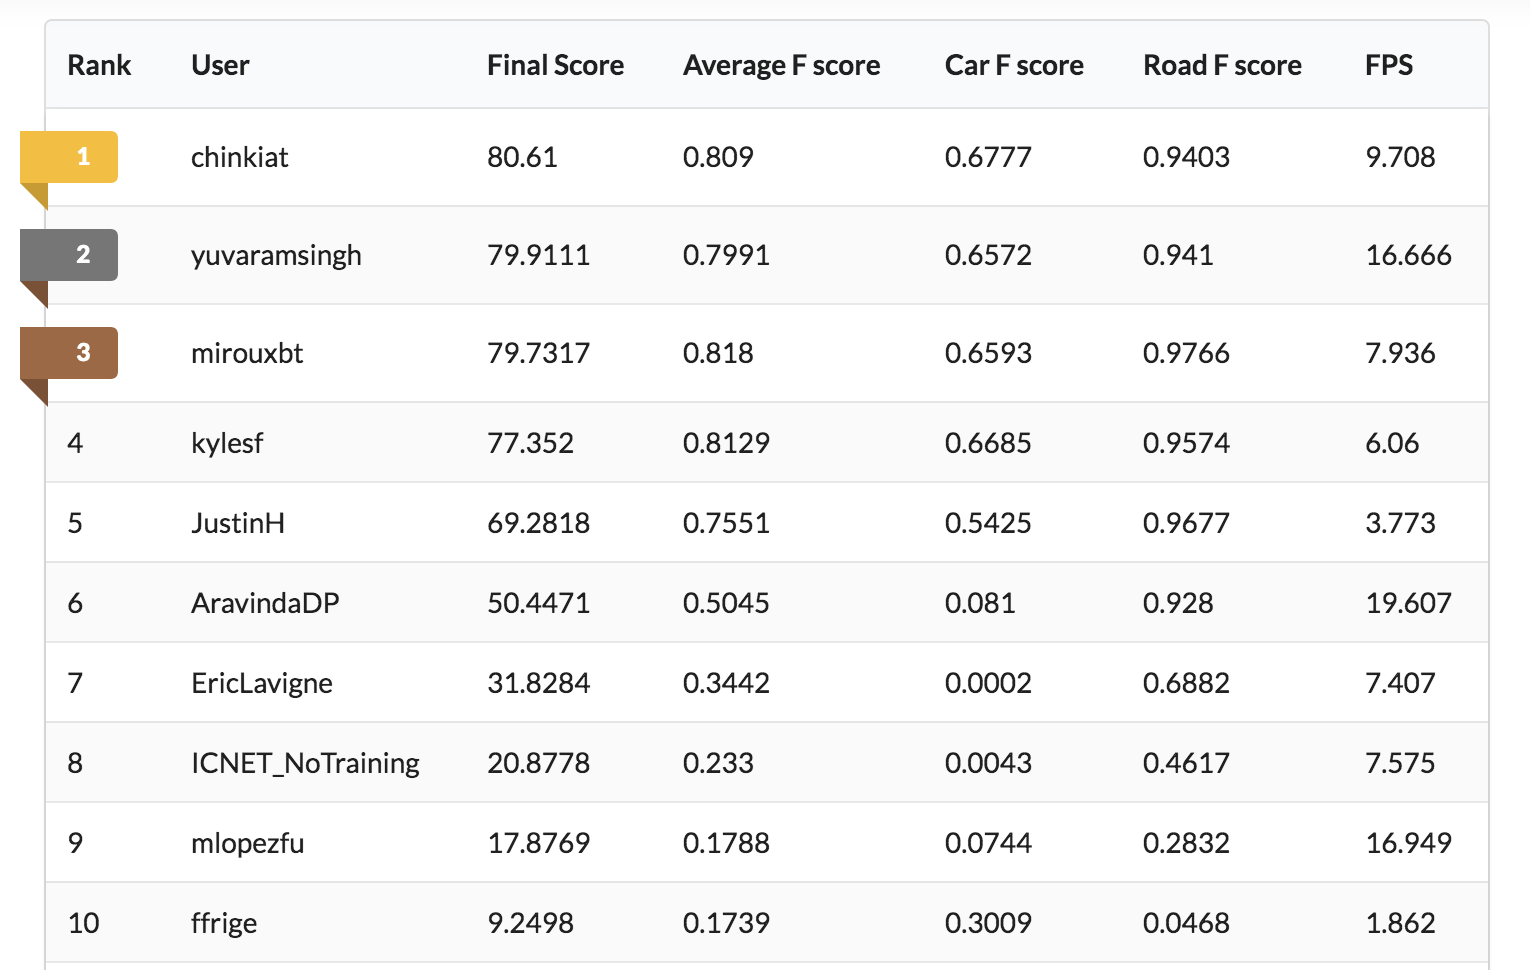
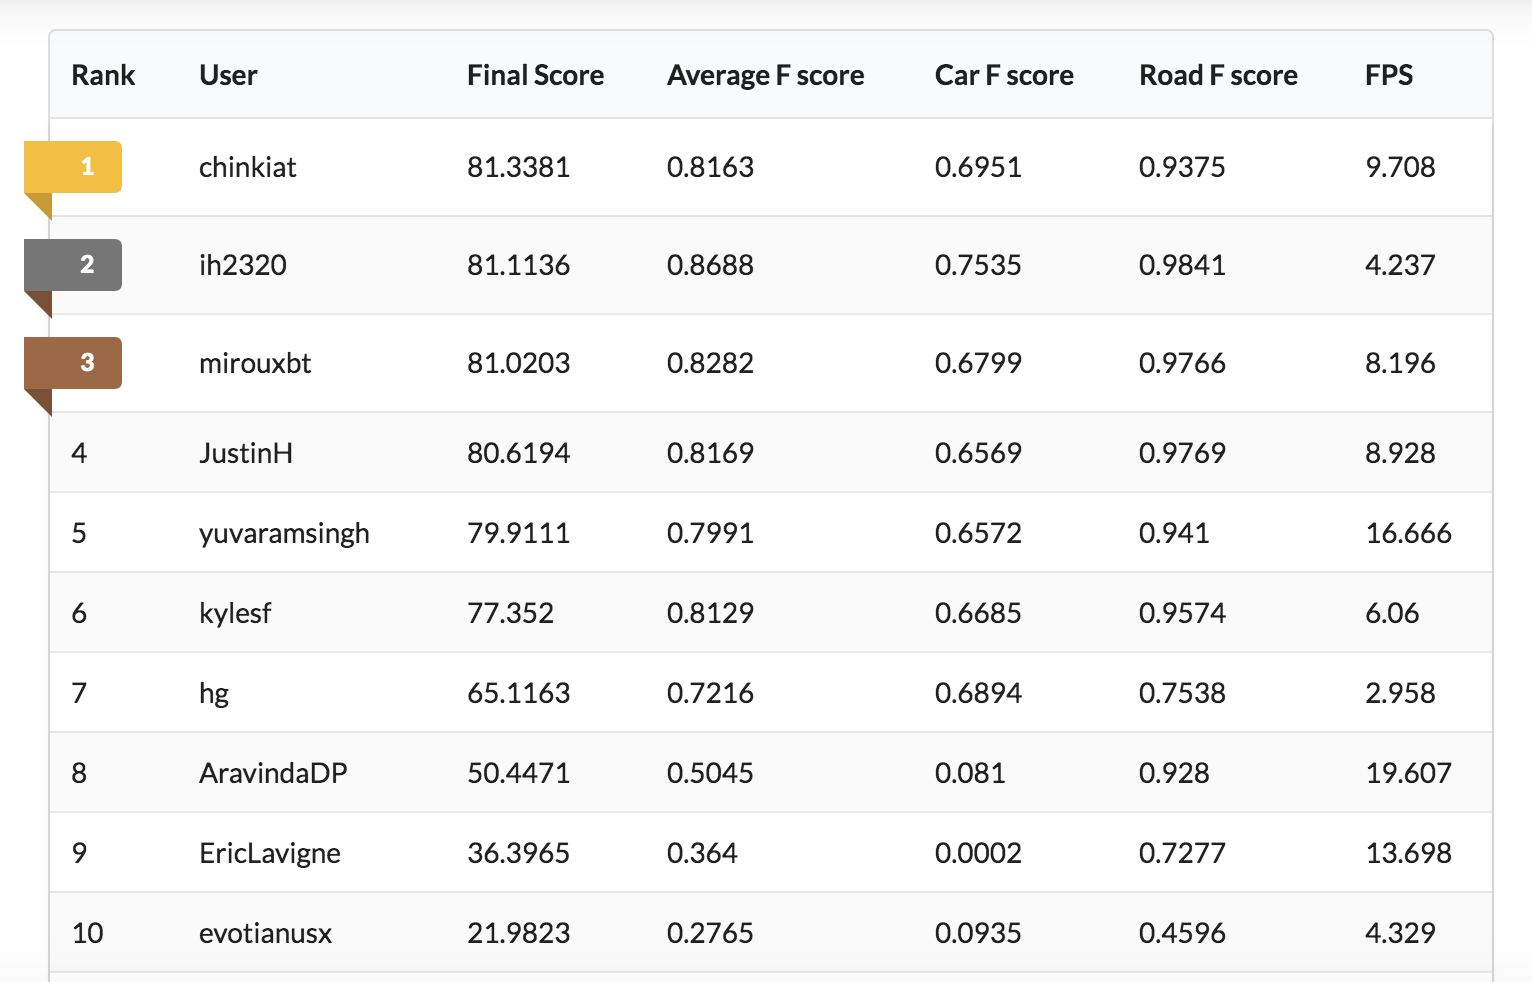
Crop and scale (road: .688 -> .728, mem: 13%, FPS: 7.4 -> 13.7)
Cropped and scaled down input image, primarily to save memory
and allow for more complex model development later. Achieved
main objective with 13% as much memory usage. Additional
benefits included improved road F-score (.688 -> .728),
improved FPS (7.4 -> 13.7), and improved training speed (x2).

diff --git a/util.py b/util.py
@@ -57,17 +57,61 @@ def read_masks(example_number):
   car_mask = None # Fix later. Focusing on road for now.
   return road_mask, car_mask
 
+preprocess_opts = {'original_max_x': 800, 'original_max_y': 600,
+                   'crop_min_x': 0, 'crop_min_y': 210,
+                   'crop_max_x': 800, 'crop_max_y': 526,
+                   'scale_factor': 2}
+                   # can crop 75 off the bottom and 212 off the top
+
+def crop(img,opt):
+  return img[opt['crop_min_y']:opt['crop_max_y'], opt['crop_min_x']:opt['crop_max_x']]
+
+def uncrop_image(img,opt):
+  target_shape = (opt['original_max_y'],opt['original_max_x'], img.shape[2])
+  frame = np.zeros(target_shape, dtype="uint8")
+  frame[opt['crop_min_y']:opt['crop_max_y'], opt['crop_min_x']:opt['crop_max_x'], 0:(img.shape[2])] = img
+  img = frame
+  return img
+
+def uncrop_output(img,opt):
+  target_shape = (opt['original_max_y'],opt['original_max_x'])
+  frame = np.zeros(target_shape, dtype="float32")
+  frame[opt['crop_min_y']:opt['crop_max_y'], opt['crop_min_x']:opt['crop_max_x']] = img
+  img = frame
+  return img
+
+def scale(img,opt):
+  img = cv2.resize(img, None, fx=(1.0/opt['scale_factor']), fy=(1.0/opt['scale_factor']),
+                   interpolation=cv2.INTER_AREA)
+  return img
+
+def unscale(img,opt):
+  img = cv2.resize(img, None, fx=opt['scale_factor'], fy=opt['scale_factor'])
+  return img
+
 def white_balance(img):
   """Ensure that image uses the full brightness range to reduce the effects of lighting."""
   low = np.amin(img)
   high = np.amax(img)
   return (((img - low + 1.0) * 252.0 / (high - low)) - 0.5).astype(np.uint8)
 
-def preprocess_input_image(img):
+def preprocess_input_image(img,opt):
   """Convert dashcam image to model's input format."""
   img = white_balance(img)
   img = cv2.GaussianBlur(img, (3,3), 0)
+  img = crop(img,opt)
+  img = scale(img,opt)
   return ((img / 253.0) - 0.5).astype(np.float32)
+
+def preprocess_mask(img,opt):
+  img = crop(img,opt)
+  img = scale(img,opt)
+  return img
+
+def postprocess_output(img,opt):
+  img = unscale(img,opt)
+  img = uncrop_output(img,opt)
+  return img
 
 def compile_model(model):
   """Would be part of create_model, except that same settings
@@ -80,7 +124,7 @@ def create_model():
   """Create neural network model, defining layer architecture."""
   model = Sequential()
   # Convolution2D(output_depth, convolution height, convolution_width, ...)
-  model.add(Conv2D(20, (5, 5), padding='same', input_shape=(600,800,3)))
+  model.add(Conv2D(20, (5, 5), padding='same', input_shape=(158,400,3))) # Need to calculate 600->158 instead of hardcode
   model.add(BatchNormalization())
   model.add(Activation('tanh'))
   model.add(Dropout(0.5))
@@ -94,6 +138,6 @@ def create_model():
   model.add(Dropout(0.5))
   model.add(Conv2D(1, (5, 5), padding='same', kernel_regularizer=l2(0.01)))
   model.add(Activation('sigmoid'))
-  model.add(Reshape((600,800)))
+  model.add(Reshape((158,400)))
   compile_model(model)
   return model

diff --git a/test.py b/test.py
@@ -2,7 +2,7 @@ import numpy as np
 import os
 import util
 
-examples = [75]
+examples = [75,270]
 
 os.makedirs("/tmp/output/infer_road", exist_ok=True)
 
@@ -16,5 +16,10 @@ for ex in examples:
   util.write_image(base_out + ".png", img)
   road_mask, car_mask = util.read_masks(ex)
   util.write_mask(base_out + "_truth.png",road_mask)
-  road_infer = model.predict(np.array([util.preprocess_input_image(img)]), batch_size=1)[0]
+  cropped = util.crop(img,util.preprocess_opts)
+  util.write_image(base_out + "_crop.png", cropped)
+  uncropped = util.uncrop_image(cropped,util.preprocess_opts)
+  util.write_image(base_out + "_uncrop.png", uncropped)
+  road_infer = model.predict(np.array([util.preprocess_input_image(img,util.preprocess_opts)]), batch_size=1)[0]
+  road_infer = util.postprocess_output(road_infer, util.preprocess_opts)
   util.write_probability(base_out + "_infer.png", road_infer)

diff --git a/submit.py b/submit.py
@@ -26,7 +26,8 @@ model.load_weights("road.h5")
 for i, rgb_frame in enumerate(video, start=1):
     red = rgb_frame[:,:,0]
     binary_car_result = np.where(red>250,1,0).astype('uint8')
-    road_infer = model.predict(np.array([util.preprocess_input_image(rgb_frame)]), batch_size=1)[0]
+    road_infer = model.predict(np.array([util.preprocess_input_image(rgb_frame, util.preprocess_opts)]), batch_size=1)[0]
+    road_infer = util.postprocess_output(road_infer, util.preprocess_opts)
     binary_road_result = np.zeros_like(binary_car_result)
     binary_road_result[road_infer > 0.5] = 1
     answer_key[i] = [encode(binary_car_result), encode(binary_road_result)]

diff --git a/train.py b/train.py
@@ -20,9 +20,9 @@ class sample_generator(object):
     images = []
     masks = []
     for i in selected:
-      images.append(util.preprocess_input_image(util.read_train_image(i)))
+      images.append(util.preprocess_input_image(util.read_train_image(i),util.preprocess_opts))
       road_mask, car_mask = util.read_masks(i)
-      masks.append(road_mask)
+      masks.append(util.preprocess_mask(road_mask,util.preprocess_opts))
     return (np.array(images), np.array(masks))
 
 model = util.create_model()
